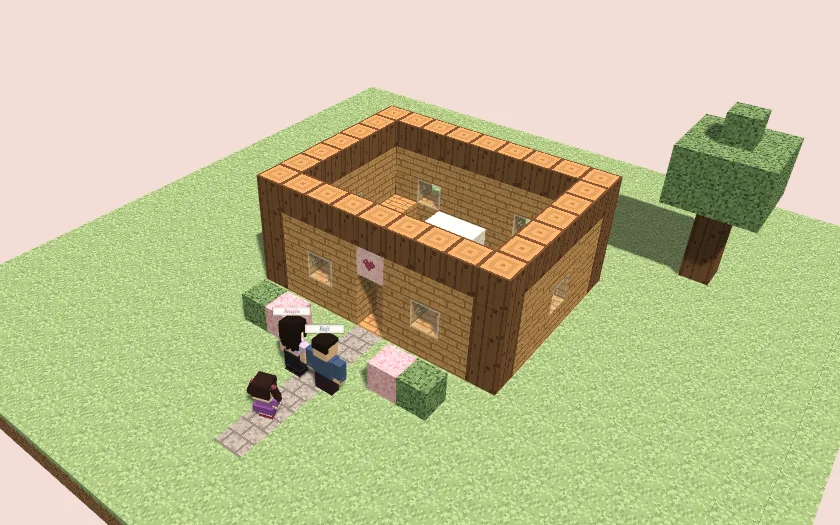
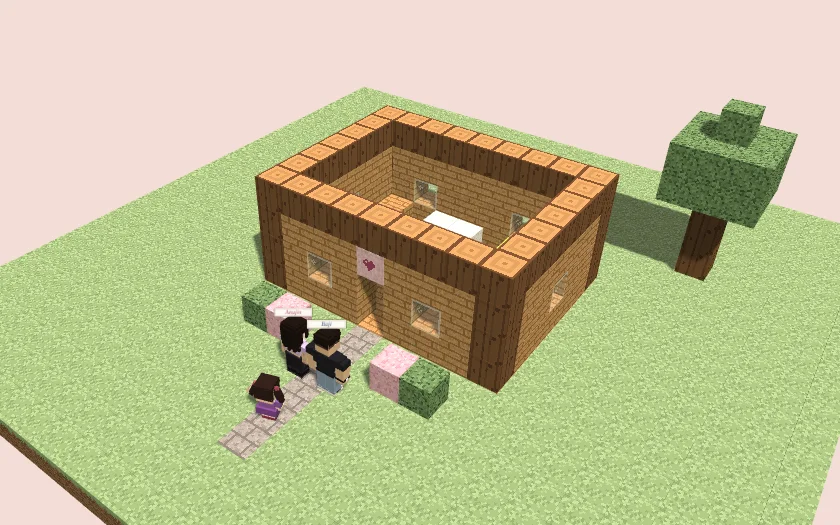
Our home: a taller, buffer, more stylish Baji
Broad chest and shoulders with a V taper, bigger arms, longer legs and
a slightly larger build overall. A fitted black tee, silver chain,
black watch, light-wash baggy jeans, white sneakers, a textured crop
with a lifted fringe and fade, strong brows and light stubble. In a
kiss he leans down and she goes up on her toes. Book picture refreshed.

Claude-Session: https://claude.ai/code/session_01CsSMHxKRckSsfcdswxFget

Changed region(s): [[0.0, 0.1524, 1.0, 1.0]]

diff --git a/home/app.js b/home/app.js
@@ -138,7 +138,25 @@ function person(o){const g=new T.Group(),body=new T.Group();g.add(body);const go
   const part=(w,h,d,mt,x,y,z,p=body)=>{const b=new T.Mesh(new T.BoxGeometry(w,h,d),mt);b.position.set(x,y,z);b.castShadow=true;p.add(b);return b};
   const limb=(mt,x,y,len,w)=>{const p=new T.Group();p.position.set(x,y,0);body.add(p);part(w,len,w,mt,0,-len/2,0,p);return p};
   let legL,legR,armL,armR;
-  if(o.street){
+  if(o.buff){
+    // Baji: a fitted black tee on a broad chest, chain and watch, light-wash baggy jeans, clean white sneakers
+    const tee=m(0x1f1f24),tee2=m(0x2a2a31),denim=m(0x8da2bd),denim2=m(0x7a8faa),white=m(0xf4f2ee),gum=m(0xd9d4cc),blk=m(0x141418),
+      silver=new T.MeshLambertMaterial({color:0xd8d8de,emissive:0x2a2a30});
+    const leg=sd=>{const p=new T.Group();p.position.set(sd*.25,1.12,0);body.add(p);
+      part(.48,.98,.5,denim,0,-.49,0,p);part(.06,.3,.3,denim2,sd*.25,-.42,.02,p);part(.5,.08,.52,denim2,0,-.94,0,p);
+      part(.46,.18,.62,white,0,-1.03,.06,p);part(.48,.06,.64,gum,0,-1.09,.06,p);part(.02,.07,.26,blk,sd*.235,-1.02,.06,p);part(.28,.03,.22,m(0xdedbd6),0,-.935,.2,p);return p};
+    legL=leg(-1);legR=leg(1);
+    part(1,.1,.56,blk,0,1.17,0);part(.14,.09,.04,silver,0,1.17,.29);
+    part(.92,.4,.52,tee,0,1.42,0);
+    part(1.22,.62,.6,tee,0,1.92,0);part(.46,.22,.05,tee2,-.26,2.02,.31);part(.46,.22,.05,tee2,.26,2.02,.31);
+    part(.34,.3,.54,tee,-.68,2.08,0);part(.34,.3,.54,tee,.68,2.08,0);
+    part(.42,.2,.4,sk,0,2.3,0);part(.3,.08,.04,sk,0,2.2,.3);
+    part(.46,.03,.44,silver,0,2.22,0);part(.06,.09,.03,silver,0,2.1,.32);
+    const arm=(sd,watch)=>{const p=new T.Group();p.position.set(sd*.8,2.16,0);body.add(p);
+      part(.52,.34,.52,tee,0,-.17,0,p);part(.5,.32,.5,sk,0,-.5,0,p);part(.44,.42,.44,sk,0,-.86,0,p);part(.4,.18,.42,sk,0,-1.13,.01,p);
+      if(watch){part(.47,.09,.47,blk,0,-.98,0,p);part(.03,.12,.14,silver,sd*.25,-.98,0,p)}return p};
+    armL=arm(-1,true);armR=arm(1,false);
+  }else if(o.street){
     // Anujin: lavender cropped baby tee, black baggy cargos with a chain, all-black Docs, tattooed arms
     const tee=m(0xc9b8e6),cargo=m(0x1f1c22),cargo2=m(0x2b2730),boot=m(0x141016),sole=m(0x0b0809),stitch=m(0x2e2a31),
       silver=new T.MeshLambertMaterial({color:0xd8d8de,emissive:0x2a2a30});
@@ -165,8 +183,16 @@ function person(o){const g=new T.Group(),body=new T.Group();g.add(body);const go
     legL=limb(pa,-.24,.95,.95,.46);legR=limb(pa,.24,.95,.95,.46);part(1.02,1,.52,sh,0,1.45,0);
     armL=limb(sh,-.73,1.92,.95,.42);armR=limb(sh,.73,1.92,.95,.42);part(.42,.2,.42,sk,0,-.92,0,armL);part(.42,.2,.42,sk,0,-.92,0,armR);
   }
-  const c=document.createElement("canvas");c.width=c.height=32;const x=c.getContext("2d");if(!o.street){x.fillStyle=o.skinCss;x.fillRect(0,0,32,32);x.fillStyle="#2b2026";x.fillRect(9,11,4,6);x.fillRect(19,11,4,6);
+  const c=document.createElement("canvas");c.width=c.height=32;const x=c.getContext("2d");if(!o.street&&!o.buff){x.fillStyle=o.skinCss;x.fillRect(0,0,32,32);x.fillStyle="#2b2026";x.fillRect(9,11,4,6);x.fillRect(19,11,4,6);
   x.strokeStyle="#2b2026";x.lineWidth=2;x.beginPath();x.arc(16,17,6,.35,Math.PI-.35);x.stroke();x.fillStyle="rgba(200,100,130,.45)";x.fillRect(5,19,4,2);x.fillRect(23,19,4,2);}
+  if(o.buff){x.fillStyle=o.skinCss;x.fillRect(0,0,32,32);
+    const px_=(c,...r)=>{x.fillStyle=c;for(let i=0;i<r.length;i+=4)x.fillRect(r[i],r[i+1],r[i+2],r[i+3])};
+    px_("rgba(70,45,30,.16)",0,26,32,6,6,21,20,5);
+    px_("#1c1410",7,9,6,2,19,9,6,2,6,10,1,1,25,10,1,1);
+    px_("#fffdf9",9,13,4,3,19,13,4,3);px_("#2b1d14",10,13,3,3,20,13,3,3);px_("#120c0a",11,14,1,1,21,14,1,1);px_("#fffdf9",10,13,1,1,20,13,1,1);
+    px_("#d6a982",15,16,2,4,14,19,4,1);
+    px_("#5a2f2a",12,22,8,1,20,21,1,1);px_("#a86a5a",13,23,6,1);
+  }
   if(o.street){x.fillStyle="#f1c9a5";x.fillRect(0,0,32,32);
     const px_=(c,...r)=>{x.fillStyle=c;for(let i=0;i<r.length;i+=4)x.fillRect(r[i],r[i+1],r[i+2],r[i+3])};
     px_("#3a2418",9,12,4,5,19,12,4,5);px_("#1a1014",10,13,2,3,20,13,2,3);px_("#fffdf9",10,13,1,1,20,13,1,1,12,15,1,1,22,15,1,1);
@@ -176,8 +202,15 @@ function person(o){const g=new T.Group(),body=new T.Group();g.add(body);const go
   }
 
   const ft=new T.CanvasTexture(c);ft.magFilter=T.NearestFilter;
-  const head=new T.Mesh(new T.BoxGeometry(.72,.72,.72),[sk,sk,sk,sk,new T.MeshLambertMaterial({map:ft}),sk]);head.position.y=2.32;head.castShadow=true;body.add(head);
-  if(o.street){
+  const hs=o.headS||.72,head=new T.Mesh(new T.BoxGeometry(hs,hs,hs),[sk,sk,sk,sk,new T.MeshLambertMaterial({map:ft}),sk]);head.position.y=o.headY||2.32;head.castShadow=true;body.add(head);
+  if(o.buff){
+    // textured crop: volume and a lifted fringe on top, a tight fade on the sides
+    const fade=m(0x4a3a32);
+    part(.82,.2,.82,ha,0,3.2,0);part(.6,.1,.56,ha,.04,3.33,.04);part(.22,.08,.22,ha,-.2,3.34,-.14);part(.18,.07,.2,ha,.24,3.32,.18);
+    const fr=part(.8,.14,.16,ha,0,3.2,.37);fr.rotation.x=.3;part(.3,.08,.1,ha,-.18,3.29,.43);
+    [-1,1].forEach(sd=>{part(.05,.2,.76,ha,sd*.39,3.04,0);part(.04,.12,.7,fade,sd*.385,2.88,-.01);part(.07,.17,.12,sk,sd*.395,2.76,.04)});
+    part(.8,.28,.06,ha,0,3.0,-.4);part(.78,.1,.05,fade,0,2.82,-.395);
+  }else if(o.street){
     // wolf cut: volume at the crown, blunt bangs, choppy layers to the shoulders, ears out with piercings
     const silver=new T.MeshLambertMaterial({color:0xd8d8de,emissive:0x2a2a30});
     part(.82,.2,.82,ha,0,2.75,0);part(.62,.08,.6,ha,-.04,2.88,-.04);part(.3,.06,.3,ha,.14,2.94,.06);
@@ -193,12 +226,13 @@ function person(o){const g=new T.Group(),body=new T.Group();g.add(body);const go
     part(.14,.16,.12,ha,-.25,1.6,-.33);part(.12,.2,.12,ha,.06,1.56,-.34);part(.14,.12,.12,ha,.27,1.62,-.33);
   }else{
   part(.78,.2,.78,ha,0,2.72,0);if(o.long)part(.78,.95,.2,ha,0,2.25,-.33);else part(.78,.3,.16,ha,0,2.55,-.32);if(o.bow)part(.34,.18,.12,m(0xe9c6cf),.28,2.82,-.28);}
-  body.scale.setScalar(.66);const tag=nameTag(o.name,o.tag);tag.position.y=2.2;g.add(tag);scene.add(g);
+  body.scale.setScalar(o.scale||.66);const tag=nameTag(o.name,o.tag);tag.position.y=o.tagY||2.2;g.add(tag);scene.add(g);
   return{g,body,legL,legR,armL,armR}}
 const LOOK={Anujin:{name:"Anujin",skin:0xf1c9a5,skinCss:"#f1c9a5",shirt:0xc9b8e6,pants:0x1f1c22,hair:0x1d1411,street:true,tag:"#a8476b"},
-  Baji:{name:"Baji",skin:0xe9bf98,skinCss:"#e9bf98",shirt:0x41577a,pants:0x2b2026,hair:0x1c1410,tag:"#41577a"}};
+  Baji:{name:"Baji",skin:0xe9bf98,skinCss:"#e9bf98",shirt:0x1f1f24,pants:0x8da2bd,hair:0x1c1410,buff:true,scale:.63,headY:2.78,headS:.76,tagY:2.38,tag:"#41577a"}};
 const people={Anujin:person(LOOK.Anujin),Baji:person(LOOK.Baji)};
 Object.values(people).forEach(p=>p.g.visible=false);
+people.Baji.lean=.24;people.Anujin.lean=.13;people.Anujin.lift=.12; // he leans down, she goes up on her toes
 
 // our little girl: twin tails, a purple dress. Her walk is timed by the clock, so she's in the same spot on both phones; tap her for a hop and hearts
 const KID=(function(){
@@ -360,7 +394,7 @@ function kissPose(now){if(!kiss)return null;const e=(now-kiss.t0)/1000;if(e>2.5)
     const s=new T.Sprite(new T.SpriteMaterial({map:heartTex,transparent:true,depthTest:false}));s.renderOrder=6;s.scale.set(.7,.7,1);s.position.set(mid.x,mid.y+1.85,mid.z);scene.add(s);hearts.push({s,vy:.45,born:now});
     if(Math.hypot(KID.g.position.x-mid.x,KID.g.position.z-mid.z)<5)KID.cheer()}
   return{lean:ramp(e,.4,.8)*(1-ramp(e,1.9,2.3)),hug:ramp(e,.3,.7)*(1-ramp(e,2,2.45))}}
-function pose(p,k){p.body.rotation.x=k?.15*k.lean:0;if(k&&k.hug){p.armL.rotation.x=-1.25*k.hug;p.armR.rotation.x=-1.25*k.hug;p.armL.rotation.z=.4*k.hug;p.armR.rotation.z=-.4*k.hug}else{p.armL.rotation.z=0;p.armR.rotation.z=0}}
+function pose(p,k){p.body.rotation.x=k?(p.lean||.15)*k.lean:0;p.body.position.y=k?(p.lift||0)*k.lean:0;if(k&&k.hug){p.armL.rotation.x=-1.25*k.hug;p.armR.rotation.x=-1.25*k.hug;p.armL.rotation.z=.4*k.hug;p.armR.rotation.z=-.4*k.hug}else{p.armL.rotation.z=0;p.armR.rotation.z=0}}
 function kissNow(){if(!me||kiss)return;const op=otherPos();if(!op)return;
   if(Math.hypot(op.x-P.x,op.z-P.z)<KISS_NEAR){beginKiss(op);if(net)net.sendEmote("kiss",{x:+P.x.toFixed(2),z:+P.z.toFixed(2)})}
   else{blowKiss(P,op);if(net)net.sendEmote("blow")}buzz()}
